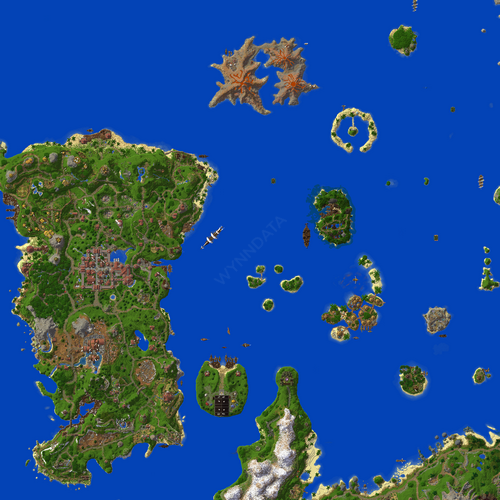
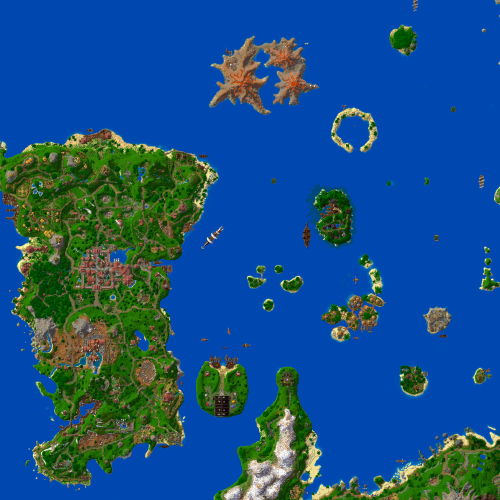
updated to 1.20 map

diff --git a/map/map.js b/map/map.js
@@ -37,13 +37,11 @@ async function run() {
   }
   bounds.push([[6, -2], [8, 0]])
   bounds.push([[-2, 0], [0, 2]])
-  bounds.push([[6, 0], [8, 2]])
+  // bounds.push([[6, 0], [8, 2]])
 
   for (let bound of bounds) {
     images.push(L.imageOverlay(`./public/tiles/${bound[0][1]}/${bound[0][0]}.png`,
-      bound, {
-      attribution: "<a href='https://wynndata.tk/map'>WYNNDATA</a>"
-    }
+      bound, {}
     ));
   }
 
@@ -496,6 +494,7 @@ async function run() {
 
   function updateLeaderboard() {
     let guildsSorted = Object.keys(territoryCount).sort(function (a, b) { return territoryCount[b] - territoryCount[a] })
+    leaderboard = []
     for (let key of guildsSorted) {
       leaderboard[key] = guilds[key];
     }
